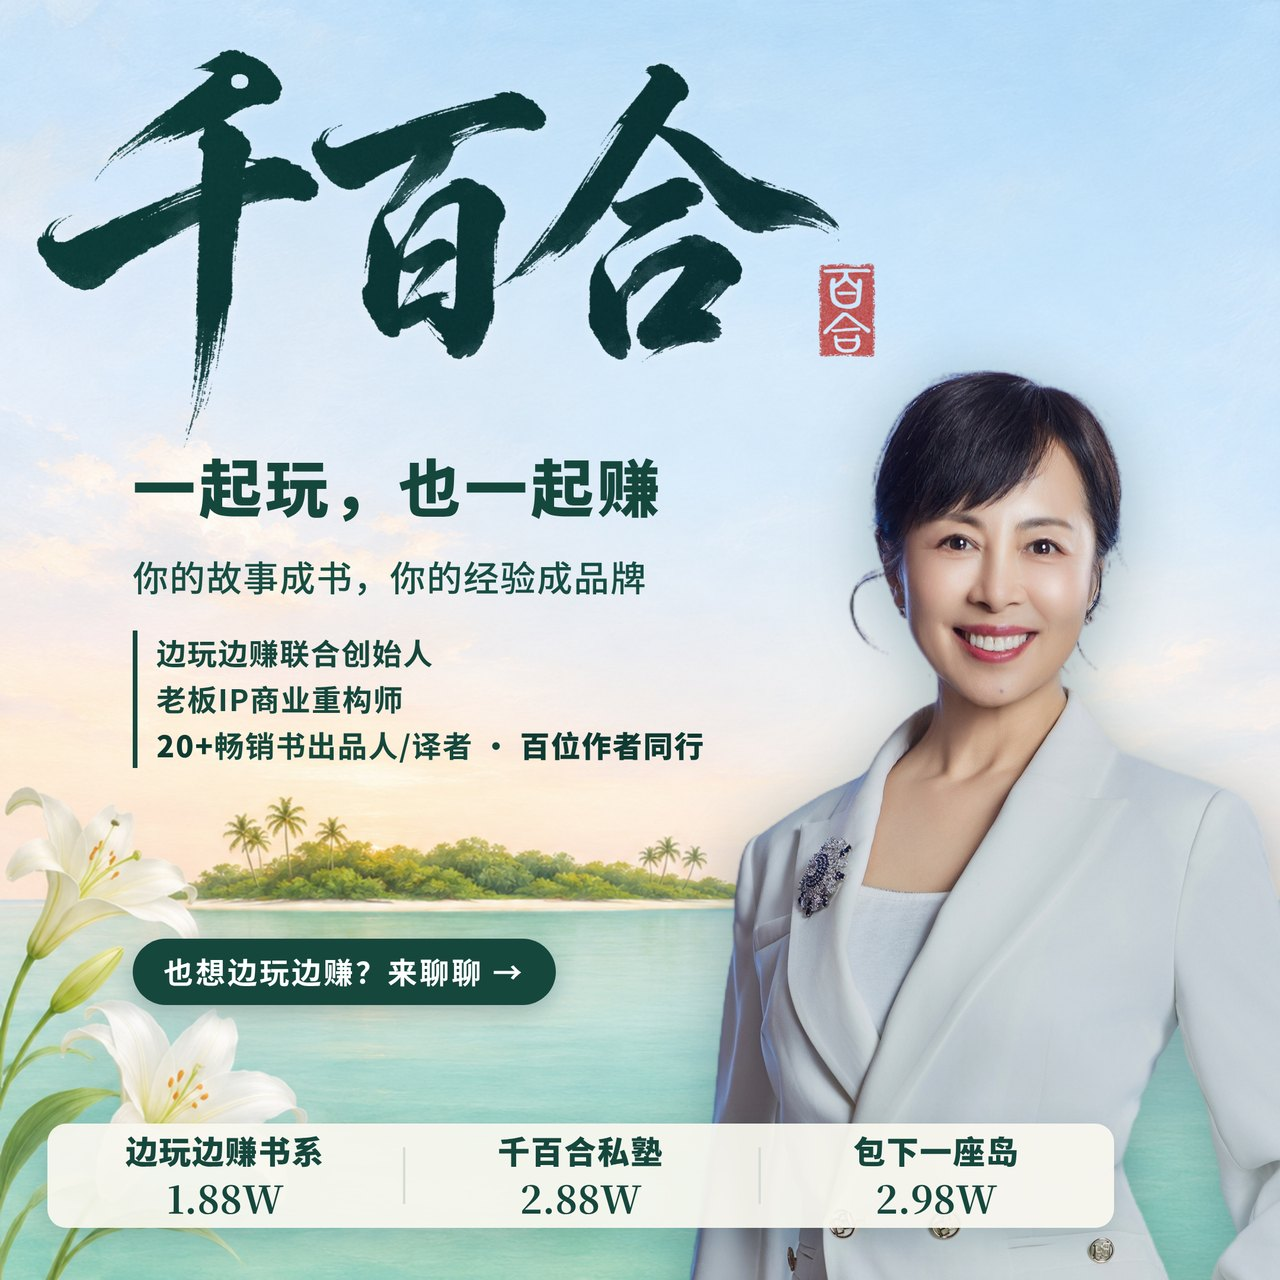
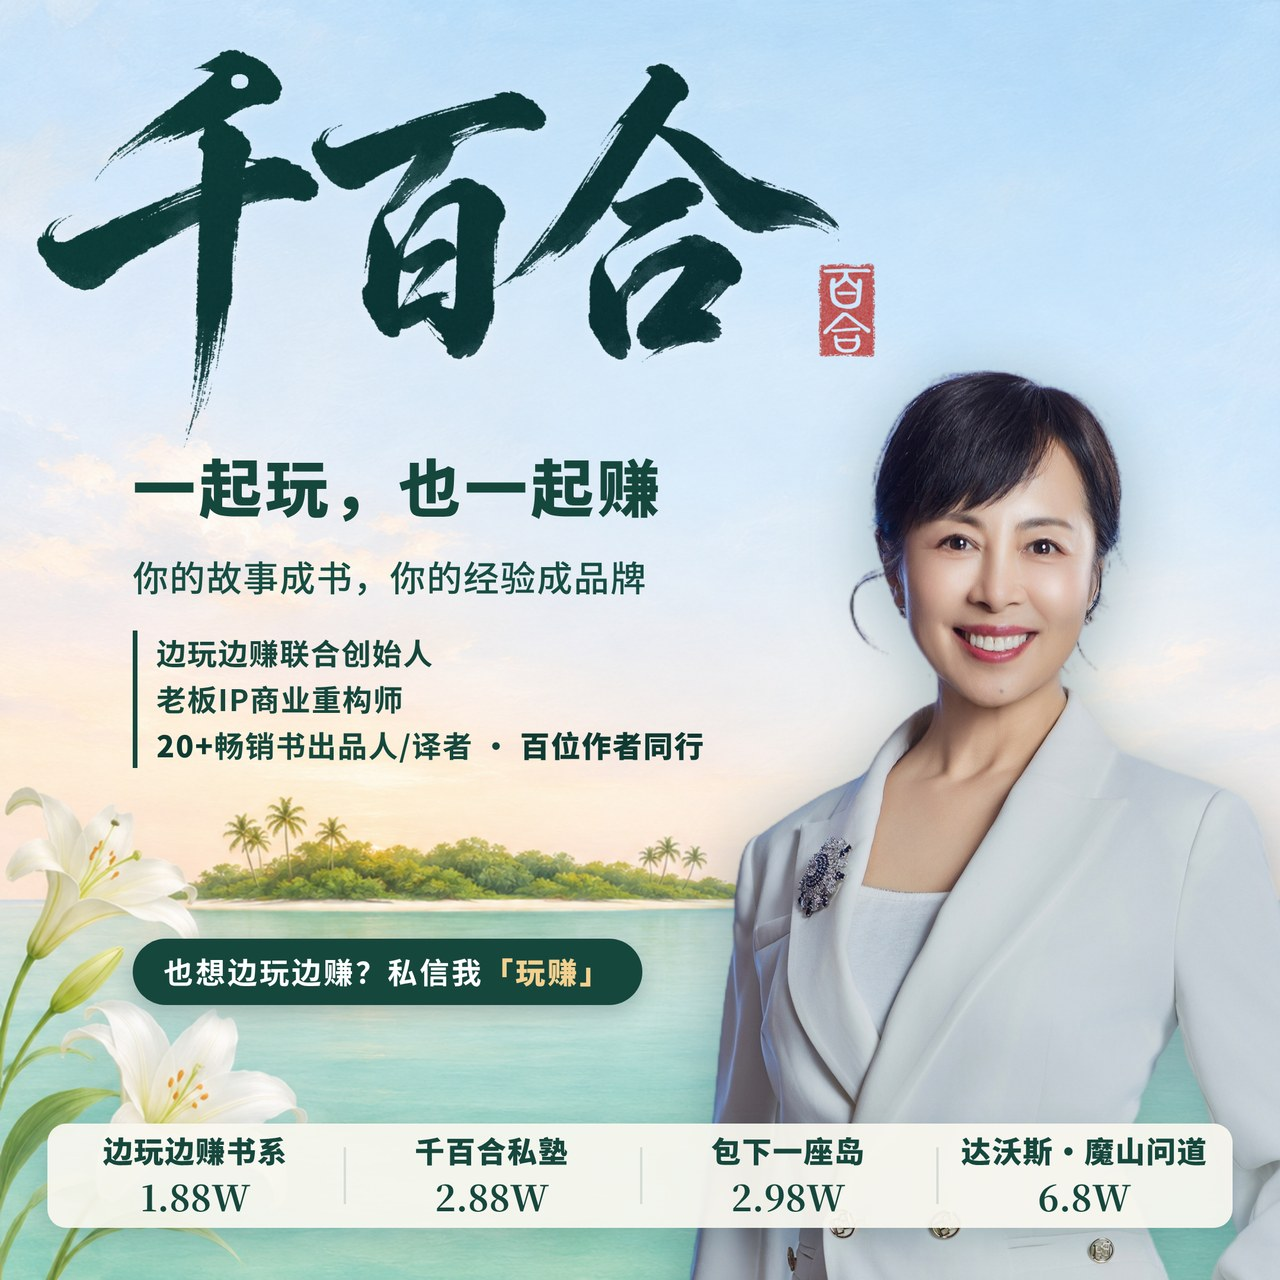
千百合主页：朋友圈封面换成背景墙 v22 四档版（加达沃斯·魔山问道）
Claude-Session: https://claude.ai/code/session_01BfepyE7ngTzdkZyUPnKytv

diff --git a/v2/lily/index.html b/v2/lily/index.html
@@ -457,7 +457,7 @@ footer a{color:#E3EEE9;text-decoration:none}
     </div>
     <div class="fan rv">
       <a href="poster.jpg?v=20261115" target="_blank"><img src="poster.jpg?v=20261115" alt="千百合的自我介绍海报" loading="lazy"><span><span class="no">4</span>自我介绍海报</span></a>
-      <a href="moments.jpg?v=20261115" target="_blank"><img src="moments.jpg?v=20261115" alt="千百合的朋友圈封面" loading="lazy"><span><span class="no">8</span>朋友圈封面</span></a>
+      <a href="moments.jpg?v=20261117" target="_blank"><img src="moments.jpg?v=20261117" alt="千百合的朋友圈封面" loading="lazy"><span><span class="no">8</span>朋友圈封面</span></a>
     </div>
     <button class="btn ghost share" type="button" id="share" style="border-color:var(--pine)">把这一页转给一位朋友</button>
   </div>
